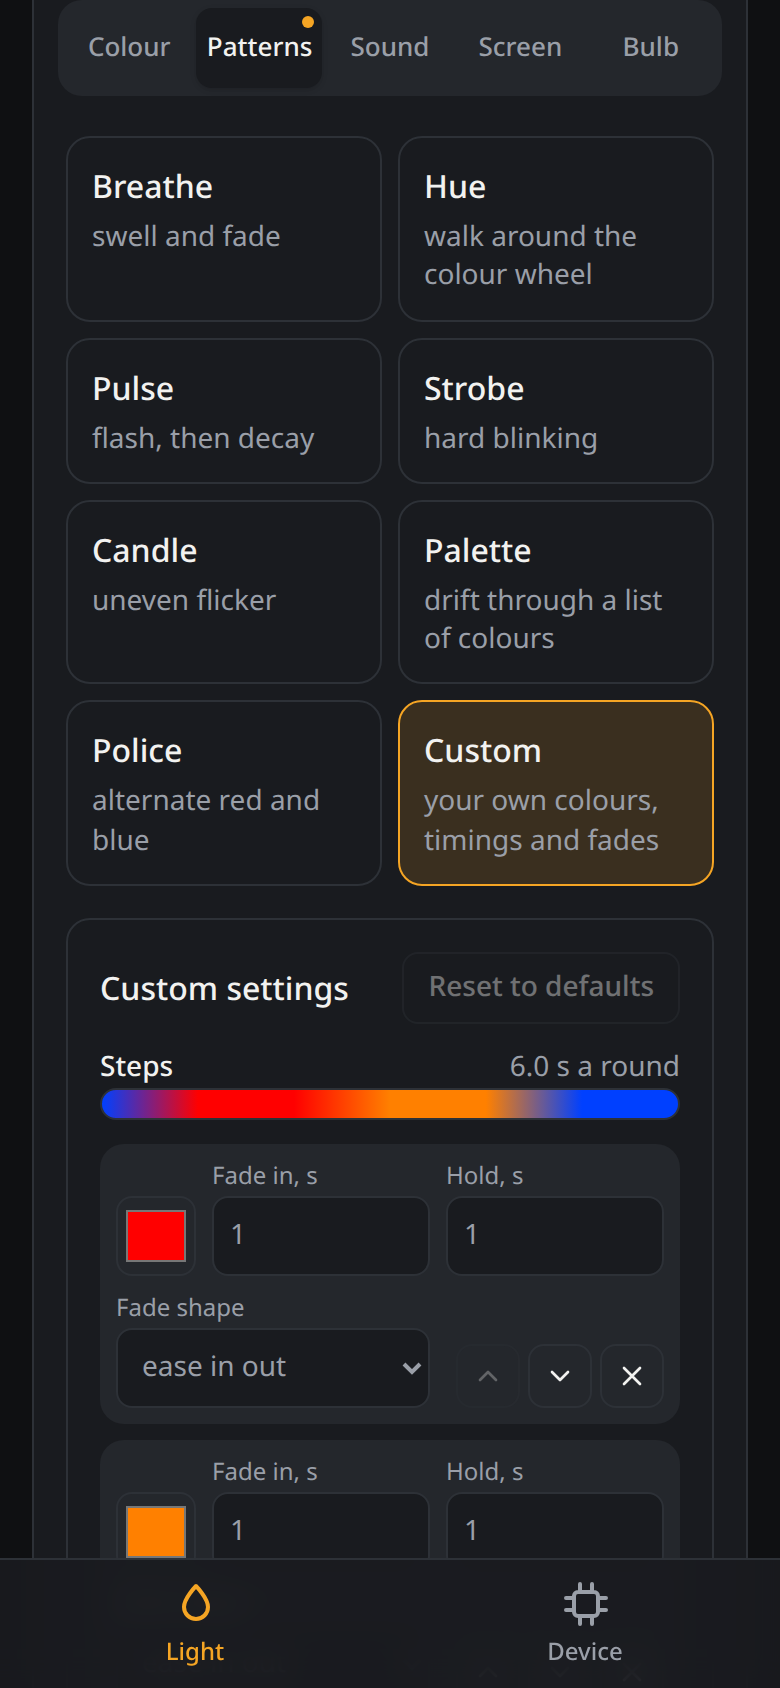
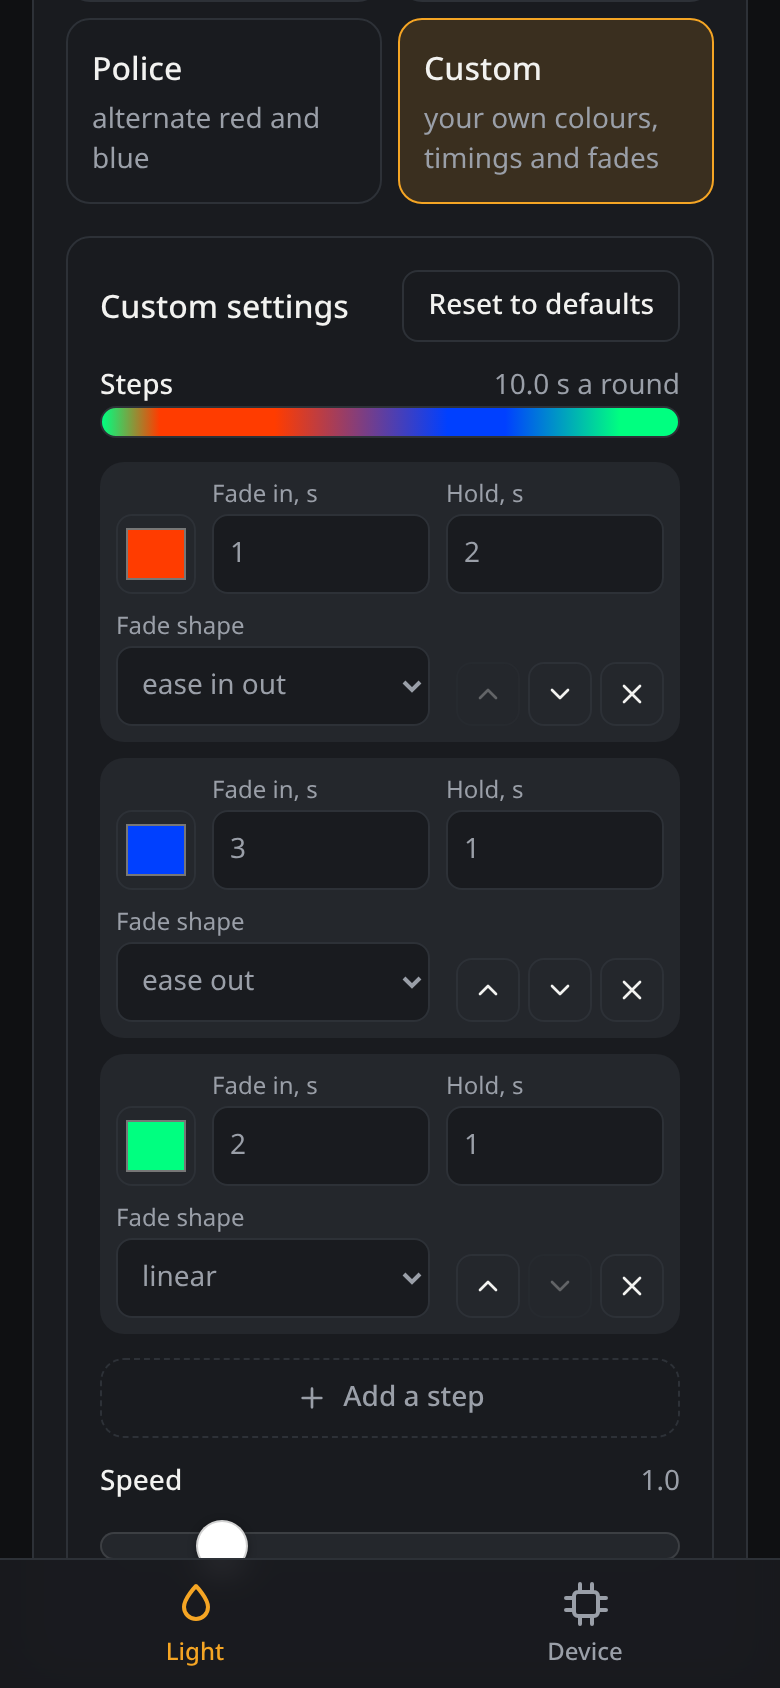
docs: present the project as the app and the service it has become
New screenshots of the current interface, the install notes for each part, and the away requests of the socket protocol.

diff --git a/README.md b/README.md
@@ -4,85 +4,106 @@
 
 Control the CHSmartBulb / BL08A Bluetooth speaker bulb from a computer, without the vendor app.
 
-The app (CHSmartBulb) no longer runs on current phones, which leaves these bulbs stuck on whatever
-colour they had last. This project documents the bulb's protocol and provides a background
-service, an app, a web interface, a command line tool and a Python library for it.
+The vendor app (CHSmartBulb) no longer runs on current phones, which leaves these bulbs stuck on
+whatever colour they had last. This project replaces it: an app for Android, Linux and Windows, a
+background service with a web interface, a command line tool and a Python library, all built on
+the bulb's protocol, which was worked out and documented here.
 
 ## What works
 
 - RGB colour, the separate white LEDs, brightness, on/off, soft fades
 - The 13 effects built into the bulb, including its sound-reactive mode
-- Your own effects, generated on the computer and streamed to the bulb, including ones that
-  follow whatever audio the computer is playing
-- A background service (`chsmartbulbd`, one Rust program) that keeps the connection, runs effects
-  and restores the light when the bulb comes back after losing power
+- 19 more effects, generated on the computer or phone and streamed to the bulb: patterns, a step
+  editor for your own, nine that follow the music, and two that follow the colour of a screen
+- A background service (`chsmartbulbd`, one Rust program for Linux and Windows) that keeps the
+  connection, runs effects and restores the light when the bulb comes back after losing power
 - A web interface served by that service, for phones and other computers on the network
+- An app for Android, Linux and Windows that needs nothing else running
 - Control from other machines on the network, with agents so the light can follow the music or
   the screen of a computer that has no Bluetooth
+- Dimming or switching off while the computer is locked or asleep
 - Reading the name, model, colour and stored timers; enabling and disabling timers
 - Bluetooth Classic (RFCOMM) and BLE transports
 
 Colour temperature is not supported by the hardware.
 
-## Web interface
+## The interface
 
-`chsmartbulbd --web 8378` serves a page for phones and other computers on the network; see
-[the usage notes](docs/usage.md#web-interface).
+The app and the page that `chsmartbulbd --web 8378` serves are the same interface: the light is in
+one of five modes (a colour, a pattern, the sound, the screen, an effect of the bulb's own), and
+the page says whose sound or screen it follows.
 
 <p>
-  <img src="docs/images/web-desktop.png" alt="The web interface on a wide screen: brightness, connections and the colour wheel" width="100%">
+  <img src="docs/images/web-desktop.png" alt="The interface on a wide screen, the light following a screen and the sound of two other computers" width="100%">
 </p>
 <p>
-  <img src="docs/images/web-colour.png" alt="Choosing a colour on a phone" width="32%">
-  <img src="docs/images/web-custom.png" alt="Editing the steps of a custom effect" width="32%">
-  <img src="docs/images/web-sound.png" alt="The effects that follow the sound" width="32%">
+  <img src="docs/images/web-colour.png" alt="Choosing a colour on a phone" width="24%">
+  <img src="docs/images/web-custom.png" alt="Editing the steps of a custom effect" width="24%">
+  <img src="docs/images/web-sound.png" alt="The effects that follow the sound" width="24%">
+  <img src="docs/images/web-screen.png" alt="Following a screen and the sound, with the monitor to follow" width="24%">
 </p>
 
-## App
+## What is in here
 
-`app/` is a desktop and mobile app (Android, Linux, Windows) with the same interface. It talks to
-the bulb itself over BLE or Bluetooth Classic, so a phone can drive the bulb with nothing else
-running, and its sound effects can follow what the phone plays while the sound goes to another
-speaker. Builds come from the [`app` workflow](.github/workflows/app.yml); see
-[docs/app.md](docs/app.md).
+| | |
+|---|---|
+| The app ([docs/app.md](docs/app.md)) | Android, Linux, Windows. Talks to the bulb itself over BLE or Bluetooth Classic, so a phone drives it with nothing else running, and can follow what the phone plays. |
+| `chsmartbulbd` ([docs/usage.md](docs/usage.md#background-service)) | The background service for a computer, Linux or Windows: holds the bulb, plays the effects, serves the web interface and takes other machines in. |
+| `chsmartbulb` ([docs/usage.md](docs/usage.md#command-line)) | The command line, in Python: drives a service, here or on another machine, or the bulb itself; also the agents that send a computer's sound or screen to a service. |
+| The Python library ([docs/usage.md](docs/usage.md#library)) | The bulb from your own code. |
+| The protocol ([docs/protocol.md](docs/protocol.md)) | What the bulb understands, for anyone writing their own. |
+
+The service, the effects and the protocol are written once, in Rust ([`crates/core`](crates/core)),
+and the app, `chsmartbulbd` and the Python package all use that one implementation.
 
 ## Install
 
-The service and the app come ready-made with every
-[release](https://github.com/mertemr/chsmartbulb/releases): `chsmartbulbd` for Linux and Windows,
-the app for Android, Linux and Windows.
+Every [release](https://github.com/mertemr/chsmartbulb/releases) carries the app (an APK, Linux
+packages, Windows installers), `chsmartbulbd` for Linux and Windows, and the Python package as a
+wheel. Bluetooth Classic needs the bulb paired first; BLE does not.
 
-The command line and the Python library need Linux with BlueZ, a paired bulb, and Python 3.10 or
-newer with Bluetooth socket support:
+The command line needs Python 3.10 or newer:
+
+```bash
+pip install "chsmartbulb @ git+https://github.com/mertemr/chsmartbulb"
+```
+
+That is enough to drive a service and, with the `audio` or `screen` extra, to run an agent, on
+Linux and Windows alike. Reaching the bulb without a service needs Linux with BlueZ and a Python
+with Bluetooth sockets (the `ble` extra adds the BLE transport), and playing effects without one
+needs [`chsmartbulb-native`](crates/python), the Rust core as a Python module.
+
+From a checkout, with Rust and [uv](https://docs.astral.sh/uv/):
 
 ```bash
 git clone https://github.com/mertemr/chsmartbulb.git
 cd chsmartbulb
-uv sync
 cargo build --release -p chsmartbulb-daemon   # the service, target/release/chsmartbulbd
+uv sync                                       # the command line, as `uv run chsmartbulb`
+uv pip install ./crates/python                # optional: chsmartbulb-native
 ```
 
 Python builds downloaded by `uv` are compiled without Bluetooth sockets, so the project is set up
-to use the system interpreter. Add `--extra audio` or `--extra screen` for the agents that feed a
-service the sound or the screen of another computer, and `--extra ble` for the BLE transport.
-
-The effects are written once, in Rust. The service and the app carry them; the Python package
-plays them too once `uv pip install ./crates/python` (which needs a Rust toolchain) has put
-`chsmartbulb-native` next to it.
+to use the system interpreter.
 
 ## Quick start
 
 ```bash
 mkdir -p ~/.config/chsmartbulb
 echo CHSMARTBULB_ADDRESS=AA:BB:CC:DD:EE:FF > ~/.config/chsmartbulb/config
-uv run chsmartbulb color red
-uv run chsmartbulb rgb 0 80 255 --brightness 40 --fade
-chsmartbulbd &                                # the background service
-uv run chsmartbulb effect hue --period 10
+chsmartbulbd --web 127.0.0.1:8378 --no-token &   # the service; the page is at http://localhost:8378
+chsmartbulb color red
+chsmartbulb rgb 0 80 255 --brightness 40 --fade
+chsmartbulb effect hue --period 10
+chsmartbulb effect music
 ```
 
-With `chsmartbulbd` running, the commands go through it: they return at once, effects keep
-playing, and the light state is remembered.
+The commands go through the service: they return at once, effects keep playing, and the light
+state is remembered. To open the page to the network, give the service a token
+([docs/usage.md](docs/usage.md#other-machines)). Without a service the command line talks to the
+bulb itself, one connection per command.
+
+The library:
 
 ```python
 import asyncio
@@ -107,10 +128,11 @@ dismissed as dummies. Every claim in the protocol document was checked on a real
 light measured by a webcam, and is marked as measured, read back, or only seen in someone else's
 capture.
 
+- [docs/usage.md](docs/usage.md): the service, the command line, the effects, the library
+- [docs/app.md](docs/app.md): the app
 - [docs/protocol.md](docs/protocol.md): frame format, commands, effects, open questions
 - [docs/device.md](docs/device.md): services, connection behaviour, BLE on Linux
 - [docs/research.md](docs/research.md): the experiments and the guesses that turned out wrong
-- [docs/app.md](docs/app.md): the app and the Rust core
 - [research/](research): the scripts and raw results behind the above
 
 ## Tests
@@ -118,6 +140,7 @@ capture.
 ```bash
 cargo test --workspace
 uv run pytest
+pnpm --dir web test
 ```
 
 The tests need no hardware; they run against a simulated bulb that behaves like the real one.
@@ -131,7 +154,8 @@ Earlier work on these bulbs that this project started from:
 [roelderickx/bluetooth-smartbulb](https://github.com/roelderickx/bluetooth-smartbulb).
 
 The picture of the bulb is the sellers' product picture, as kept in the first and third of those
-repositories. The screenshots are of the web interface driving a simulated bulb.
+repositories. The screenshots are of the web interface driving a simulated bulb
+(`chsmartbulbd --simulate`).
 
 ## License
 

diff --git a/docs/usage.md b/docs/usage.md
@@ -142,7 +142,7 @@ follows the screen, or an effect built into the bulb. The sound and screen modes
 or screen is being followed and how to bring an agent in; the device section lists every
 connection, agents and other open pages included.
 
-The page is a static bundle of about 30 kB that holds no logic of the service. It is built from
+The page is a static bundle of about 30 kB compressed that holds no logic of the service. It is built from
 [`web/`](../web) (Svelte, Tailwind) and the result is kept in `web/bundle`, which `chsmartbulbd`
 and the app carry inside them. To work on it:
 
@@ -238,7 +238,7 @@ One JSON object per line in each direction. Replies carry `"ok"` and, on failure
 ```
 
 Commands: `status`, `on`, `off`, `color`, `brightness`, `effect`, `native`, `stop`, `effects`,
-`info`, `timers`, `timer`, `raw`, `subscribe`, `reconnect`, `monitor`.
+`info`, `timers`, `timer`, `raw`, `subscribe`, `reconnect`, `monitor`, `away`, `back`.
 
 Agents stream `audio` or `screen` blocks, which are not answered. An agent may greet first with
 `{"cmd": "hello", "kind": "screen", "name": "desk", "monitors": [{"index": 1, "width": 1920,
@@ -250,7 +250,7 @@ connection, again whenever an agent of the same name comes back.
 
 A request may carry an `"id"` of its own choosing, which the reply repeats. After
 `{"cmd": "subscribe"}`, whose reply holds the current state, the service sends
-`{"event": "state", "connected": ..., "link": ..., "problem": ..., "playing": ..., "on": ...,
+`{"event": "state", "connected": ..., "link": ..., "problem": ..., "playing": ..., "away": ..., "on": ...,
 "color": ..., "brightness": ..., "effect": ..., "native": ..., "audio": ..., "screen": ...,
 "agents": {"audio": 0, "screen": 0}, "watchers": 1}`
 whenever any of it changes. A client that falls behind gets the latest state, not a backlog.
@@ -259,6 +259,9 @@ whenever any of it changes. A client that falls behind gets the latest state, no
 last attempt failed. While the bulb is away the rest of the state is what it will be given when
 it returns. `agents` counts the connected agents of each kind and `watchers` the subscribed
 clients. `reconnect` makes the service try at once instead of waiting out its retry delay.
+`{"cmd": "away", "reason": "lock"}` (or `sleep`, `shutdown`) rests the light as
+[`--on-lock` and `--on-sleep`](#when-the-computer-locks-sleeps-or-shuts-down) say, `back` ends
+that, and `away` in the state is the reason while it lasts.
 
 `effects` lists each effect with what it follows (`needs`, and `also` for one that follows both
 the sound and the screen), its default `params` and a `schema` per parameter
